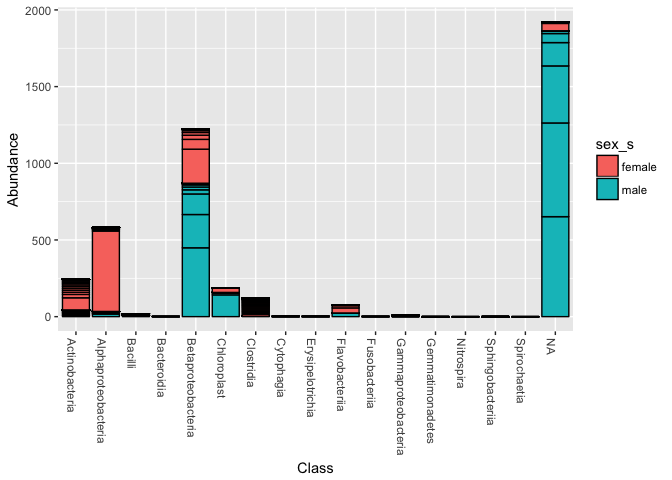
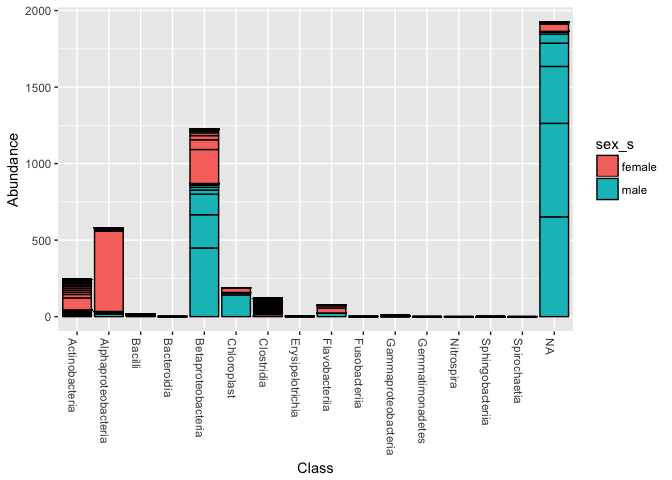
Add in modified md and png

diff --git a/Analysis_Report_01_amplicons.md b/Analysis_Report_01_amplicons.md
@@ -1,4 +1,4 @@
-Analysis Report 1: Your Title Here
+Analysis Report 1: Comparison of Male and Female Microbial Communities
 ================
 Isabella Finney
 October 20, 2017
@@ -6,9 +6,7 @@ October 20, 2017
 Introduction
 ============
 
-QUESTION: What makes male and female bacteria different? -differences in microbrial communities in both of them?
-
-Add about 1.5-2 pages here. Must cite at least 5 peer reviewed articles.
+The skin is the largest organ in the human body. It acts as an effective barrier against pathogen and foreign invasions into the body. Not only is it a defense barrier, but it is also populated by a diverse number of microorganisms that serve different purposes. The skin acts as an ecological system depending on the particular environment the skin is exposed to at different times (Grice and Segre, 2011). The ecological environment that the skin encounters determine the colonization of these microorganisms. Other determining factors are based on things that involve the host, such as gender, age, and hygiene. The development and application of modern molecular methods has made it possible for scientists to more fully understand the diverse communities of bacteria found on all over the body. The use of high-throughput sequencing on 16S ribosomal RNA genes has helped accomplished this goal (Olsen *et al.*, 1986). The significance in the 16s RNA gene is that it’s universally found in all bacteria. This allows scientists to compare the sequences at various levels of taxonomic resolution (Woese, 1987). Through various studies, scientists were able to conclude that different portions of the body have more concentrated portions of certain bacterial microorganisms than other areas on the body. Bacterial community concentrations are often dependent on moist, dry and sebaceous microenvironments. One of the difficulties in determining microorganisms on the skin is due to biases and inefficiency in extraction and sequencing 16S RNA genes. Whole genome shotgun sequencing must also be used in order to determine the full diversity of microorganisms. The areas with the most diversity are drier areas. This portion includes the buttocks, forearm, and portions of the hand. The most common microbiota found in these places are from the phyla Proteobacteria, Actinobacteria, Firmicutes, and Bacteriodetes (Grice *et al.*, 2008). In particular, hands are important to the transfer of microorganisms across surfaces. Through various research, scientists were able to determine that 17% of the phylotypes were the same among the hands of the same individual and 13% was present on hands of different individuals (Fierer *et al.*, 2008). The hands also have about less than 150 distinctive bacterial phylotypes present (Stackebrandt and Goebel, 1994). Age, gender, exposure to materials, hygiene, and dominant handedness were all contributing factors to the variation of microbiota. When taking a closer look at some of the contributing factors, the differences between males and female hands presented an interesting case. Using the results collected from a study that looked at bacterial communities present on the surface of hands (Fierer *et al.*, 2010), I further investigated whether gender differences are a strong factor in the production of certain bacterial communities. Some facts to consider are that statistically, male hands had larger pore size, skin thickness, lower pH, and produced more sebum (Pochi and Strauss, 1974). Taking into account these differences, I hypothesized that females would have a higher presence of diverse microbial communities than men. Investigating different aspects of the dataset may help determine whether gender difference plays a large role in the diversity of bacterial communities.
 
 Methods
 =======
@@ -16,17 +14,15 @@ Methods
 Sample origin and sequencing
 ----------------------------
 
-Add about half a page here. In this section instead of first person (I/we), use Fierer et al., since you'll just be describing what they did, based on the methods in their paper.
+A few different sample studies were preformed within the Fierer et al. paper, on different objects in order to test the accuracy of this hypothetical approach. The first study involved swabbing computer keyboards (25–30 keys per keyboard) as well as swabbing the and the skin on the ventral surface of the distal joint of each fingertip of the owner of the keyboard. Swabbing has been shown to be a sufficient method of collecting data. Swabbing this specific area of the body was chosen because the biomass levels on the skin are high enough to get a sufficient and equal amount of swabs collected per subject. Another study was designed to test the survival and matching accuracy of the bacterial communities after an extended period of time. This study essentially split the swab samples and froze half of them, while leaving other half to sit in normal, indoor environmental conditions for up to 14 days. The last study swabbed both the palms of the hands of different subjects as well as their computer mouse. Their mice had been last touched 12 hours before collection. To sequence this data, scientists used DNA extraction and pyrosequencing via 454 sequencer. This process involves purifying DNA into fragments, placing them into beads, and copying it multiple times via PCR. After PCR, the beads are placed into wells on a sequencing plate where nucleotide bases are added to each well. From there, light is given out to the wells and depending on the light intensity that the camera records, the wells will display the number of nucleotides of the same type.
 
 Computational
 -------------
 
-These are the methods you used. Should probably be at least a half of a page. At a very minimum should include citations for DADA2 (Callahan *et al.*, 2016) and phyloseq (McMurdie and Holmes, 2013). Note that these don't count towards the five references you need to cite in the introduction.
+The process to computationally parse and analyze the data gathered was accomplished using a systematic workflow. The first step was to install all the necessary packages needed to get the dataset in the best suited format possible. In particular, the two most important packages that were installed were DADA2 and phyloseq. DADA2 is a type of open-software package that’s designed to model and correct Illumina-sequenced amplicon errors. It is able to directly extrapolate sequences and accurately resolve any error in as little as 1 nucleotide base (Callahan *et al.*, 2016). The phyloseq pack is also an open-software. This software project was made to preform analysis of microbiome census data present in R. It imports data and allows a user to preform various types of analysis like subsetting, multi-table comparisons, and diversity analysis (McMurdie and Holmes, 2013). This package essentially allowed me to make the different figures comparing the data between men and women. The metadata set was first downloaded from the NCBI database. Then through the creation of a fastq processing script, the metadata was thoroughly trimmed based on a set of parameters determined from the 454 sequencer. From here, DADA2 does its job to check for errors in each of the samples. After doing quality checks on the trimmed and denoised sequences, chimeras were removed from the sequences in order to obtain a clean read. Chimeras are formed from two miscloned and joined DNA sequences. The cleaned sequences variants were assigned taxonomy based on known sequences and then a phylogeny was created from a fasta file format of the data. A phyloseq object was constructed from the DADA2 output.
 
 Results
 =======
-
-In addition to a minimum of 3-4 figures/tables (and associated captions), you should include sufficient text in this section to describe what your findings were. Remember that in the results section you just describe what you found, but you don't interpret it - that happens in the discussion.
 
 ``` r
 # Be sure to install these packages before running this script
@@ -578,7 +574,7 @@ unname(taxa)
     ##        [,1]       [,2]                        [,3]                 
     ##   [1,] "Bacteria" "Proteobacteria"            NA                   
     ##   [2,] "Bacteria" "Proteobacteria"            "Alphaproteobacteria"
-    ##   [3,] "Bacteria" "Bacteroidetes"             "Cytophagia"         
+    ##   [3,] "Bacteria" "Bacteroidetes"             NA                   
     ##   [4,] "Bacteria" "Proteobacteria"            NA                   
     ##   [5,] "Bacteria" "Proteobacteria"            "Betaproteobacteria" 
     ##   [6,] "Bacteria" "Cyanobacteria/Chloroplast" "Chloroplast"        
@@ -755,7 +751,7 @@ unname(taxa)
     ##        [,4]                 [,5]                  
     ##   [1,] NA                   NA                    
     ##   [2,] "Rhizobiales"        "Bartonellaceae"      
-    ##   [3,] "Cytophagales"       NA                    
+    ##   [3,] NA                   NA                    
     ##   [4,] NA                   NA                    
     ##   [5,] "Neisseriales"       "Neisseriaceae"       
     ##   [6,] "Chloroplast"        "Streptophyta"        
@@ -878,7 +874,7 @@ unname(taxa)
     ## [123,] "Actinomycetales"    "Nocardioidaceae"     
     ## [124,] "Lactobacillales"    "Carnobacteriaceae"   
     ## [125,] "Clostridiales"      "Lachnospiraceae"     
-    ## [126,] "Bacillales"         "Bacillaceae_1"       
+    ## [126,] "Bacillales"         NA                    
     ## [127,] "Clostridiales"      "Ruminococcaceae"     
     ## [128,] "Rhizobiales"        "Methylobacteriaceae" 
     ## [129,] "Rhodospirillales"   "Rhodospirillaceae"   
@@ -895,7 +891,7 @@ unname(taxa)
     ## [140,] "Erysipelotrichales" "Erysipelotrichaceae" 
     ## [141,] "Actinomycetales"    "Mycobacteriaceae"    
     ## [142,] "Actinomycetales"    "Microbacteriaceae"   
-    ## [143,] "Clostridiales"      "Ruminococcaceae"     
+    ## [143,] "Clostridiales"      NA                    
     ## [144,] "Actinomycetales"    "Propionibacteriaceae"
     ## [145,] "Clostridiales"      "Ruminococcaceae"     
     ## [146,] "Actinomycetales"    "Nocardioidaceae"     
@@ -914,7 +910,7 @@ unname(taxa)
     ## [159,] "Lactobacillales"    "Carnobacteriaceae"   
     ## [160,] "Flavobacteriales"   "Flavobacteriaceae"   
     ## [161,] "Fusobacteriales"    "Leptotrichiaceae"    
-    ## [162,] "Clostridiales"      NA                    
+    ## [162,] "Clostridiales"      "Ruminococcaceae"     
     ## [163,] "Bacillales"         "Bacillaceae_1"       
     ## [164,] "Clostridiales"      NA                    
     ## [165,] "Nitrospirales"      "Nitrospiraceae"      
@@ -980,10 +976,10 @@ unname(taxa)
     ##  [48,] NA                         
     ##  [49,] "Microbacterium"           
     ##  [50,] "Mycobacterium"            
-    ##  [51,] "Marmoricola"              
+    ##  [51,] NA                         
     ##  [52,] NA                         
     ##  [53,] "Streptomyces"             
-    ##  [54,] "Sphingosinicella"         
+    ##  [54,] NA                         
     ##  [55,] NA                         
     ##  [56,] NA                         
     ##  [57,] "Oscillibacter"            
@@ -994,7 +990,7 @@ unname(taxa)
     ##  [62,] "Microvirga"               
     ##  [63,] NA                         
     ##  [64,] "Arthrobacter"             
-    ##  [65,] NA                         
+    ##  [65,] "Marmoricola"              
     ##  [66,] "Microbacterium"           
     ##  [67,] "Sphingomonas"             
     ##  [68,] NA                         
@@ -1009,7 +1005,7 @@ unname(taxa)
     ##  [77,] "Nocardia"                 
     ##  [78,] "Nocardioides"             
     ##  [79,] "Subtercola"               
-    ##  [80,] "Butyricicoccus"           
+    ##  [80,] NA                         
     ##  [81,] "Cloacibacterium"          
     ##  [82,] "Microbacterium"           
     ##  [83,] "Sphingomonas"             
@@ -1055,7 +1051,7 @@ unname(taxa)
     ## [123,] "Nocardioides"             
     ## [124,] NA                         
     ## [125,] NA                         
-    ## [126,] "Bacillus"                 
+    ## [126,] NA                         
     ## [127,] NA                         
     ## [128,] "Microvirga"               
     ## [129,] "Niveispirillum"           
@@ -1063,13 +1059,13 @@ unname(taxa)
     ## [131,] NA                         
     ## [132,] NA                         
     ## [133,] NA                         
-    ## [134,] "Nicoletella"              
+    ## [134,] NA                         
     ## [135,] NA                         
     ## [136,] NA                         
     ## [137,] "Stappia"                  
     ## [138,] NA                         
     ## [139,] "Massilia"                 
-    ## [140,] NA                         
+    ## [140,] "Erysipelothrix"           
     ## [141,] "Mycobacterium"            
     ## [142,] "Microbacterium"           
     ## [143,] NA                         
@@ -1077,12 +1073,12 @@ unname(taxa)
     ## [145,] "Pseudoflavonifractor"     
     ## [146,] "Nocardioides"             
     ## [147,] NA                         
-    ## [148,] "Arachidicoccus"           
+    ## [148,] NA                         
     ## [149,] "Ruminococcus"             
     ## [150,] NA                         
     ## [151,] NA                         
     ## [152,] "Clostridium_sensu_stricto"
-    ## [153,] "Prevotella"               
+    ## [153,] NA                         
     ## [154,] NA                         
     ## [155,] NA                         
     ## [156,] NA                         
@@ -1203,7 +1199,7 @@ plot_richness(pruned_phyloseq,
 
 ``` r
 set.seed(15)
-#Pruning to subset the dataset 
+#Pruning to subset the dataset
 pruned_phyloseq <- subset_samples(phyloseq_obj, sex_s != "Not applicable")
 pruned_ord <- ordinate(pruned_phyloseq, "NMDS", "bray")
 ```
@@ -1275,7 +1271,7 @@ print(p1)
 
 ``` r
 #Create Plot Ordination showing the phylum present by sex
-pruned_phyloseq_ord <- ordinate(pruned_phyloseq,"NMDS", "bray")
+pruned_phyloseq_ord <- ordinate(pruned_phyloseq, "NMDS", "bray")
 ```
 
     ## Square root transformation
@@ -1332,8 +1328,8 @@ pruned_phyloseq_ord <- ordinate(pruned_phyloseq,"NMDS", "bray")
     ## half-change scaling: too few points below threshold
 
 ``` r
-p1 <- plot_ordination(pruned_phyloseq, pruned_phyloseq_ord, 
-                      type = "taxa", color = "Phylum", title = "taxa")
+p1 <- plot_ordination(pruned_phyloseq, pruned_phyloseq_ord,
+                      type = "Taxa", color = "Phylum", title = "taxa")
 print(p1)
 ```
 
@@ -1379,11 +1375,27 @@ plot_bar(pruned_phyloseq, x = "Class", fill = "sex_s")
 Discussion
 ==========
 
-Add around 2-3 pages interpreting your results and considering future directions one might take in analyzing these data.
+The majority of the results were formed through taking smaller sets of the whole metadata and outputting it in the form of different plots. Based on the results the figures showed, female hands contained a higher microbial diversity than within the sebum on male hands. Using different types of plots helped to thoroughly test the different aspects that are involved in the biodiversity of the microorganisms. The first thing that I decided to investigate from the data was richness (Figure 1 and 2). Ecologically, richness shows the number of different species that are represented within the community. Plotting just the diversity in male and female sebum from the observed data (Figure 2), I was able to see that male sebum had a more concentrated and lower alpha diversity in presented across the samples than female sebum did. This was further supported when the samples were plotted using Shannon diversity. Shannon diversity looks at both abundance and evenness within the present species. These results show that across all the samples, the male sebum didn’t contain as many different microbial communities as the female sebum did. It also shows that within the microorganisms found on males, there was much less evenness which lead me to believe that there must be some microbial communities that are more highly represented than others. This discovery in my dataset pushed me to further investigate what are the types of microbial communities that dominate male and female sebum in the hopes of further understanding what makes the sebum types different. Making plot ordinations and a phylogeny tree gave me a preliminary view on the ordering of the taxa and phylum present within the samples and comparing them between men and women (Figure 3,4, and 5). I then decided to take a closer look at the abundance of taxa and phylum through the creation of bar plots (Figure 6 and 7). These plots gave me the most compelling data in my research. When looking at taxonomy, Proteobacteria, Cyanobacteria, and Actinobacteria were the three most highly present taxa found in both samples. When I compared males and females, males exhibited a higher abundance in Proteobacteria than females which further supports the findings in my earlier graphs that showed the proportion in evenness in male and female sebum. Looking at phylum, females exhibited more alphaproteobacteria and betaproteobacteria was more present in males. Based on these results, I could conclude that although females and males exhibit some similarities in taxonomy, physiological differences between the genders accounts for the variating presence and abundance of different types of microbial communities. Investigating these findings further is advised and doing more background checks on the participants is advised because pH, hygiene, and environment exposure are all compelling factors that shape the microbial communities on each individual’s hands.
 
 Sources Cited
 =============
 
 Callahan,B.J. *et al.* (2016) DADA2: High-resolution sample inference from illumina amplicon data. *Nature Methods*, **13**, 581–583.
 
+Fierer,N. *et al.* (2008) The influence of sex, handedness, and washing on the diversity of hand surface bacteria. *Proceedings of the National Academy of Sciences*, **105**, 17994–17999.
+
+Fierer,N. *et al.* (2010) Forensic identification using skin bacterial communities. *Proceedings of the National Academy of Sciences*, **107**, 6477–6481.
+
+Grice,E.A. and Segre,J.A. (2011) The skin microbiome. *Nature Reviews Microbiology*, **9**, 244–253.
+
+Grice,E.A. *et al.* (2008) A diversity profile of the human skin microbiota. *Genome research*, **18**, 1043–1050.
+
 McMurdie,P.J. and Holmes,S. (2013) Phyloseq: An r package for reproducible interactive analysis and graphics of microbiome census data. *PLoS ONE*, **8**, e61217.
+
+Olsen,G.J. *et al.* (1986) Microbial ecology and evolution: A ribosomal rna approach. *Annual reviews in microbiology*, **40**, 337–365.
+
+Pochi,P.E. and Strauss,J.S. (1974) Endocrinologic control to the development and activity of the human sebaceous gland. *Journal of Investigative Dermatology*, **62**, 191–201.
+
+Stackebrandt,E. and Goebel,B. (1994) Taxonomic note: A place for dna-dna reassociation and 16S rRNA sequence analysis in the present species definition in bacteriology. *International Journal of Systematic and Evolutionary Microbiology*, **44**, 846–849.
+
+Woese,C.R. (1987) Bacterial evolution. *Microbiological reviews*, **51**, 221.
